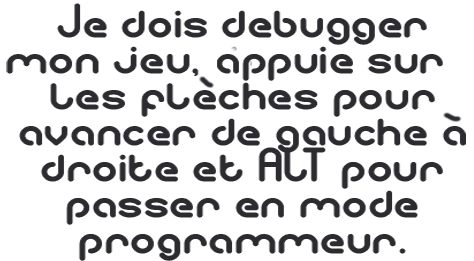
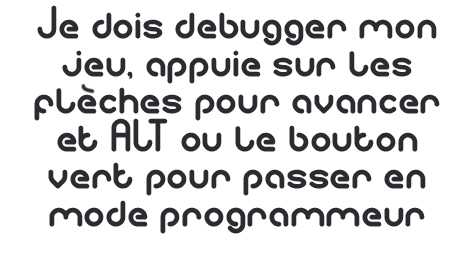
Ajout touche mobiule, j'aime pas phaser

diff --git a/src/scenes/Niveau1.js b/src/scenes/Niveau1.js
@@ -62,6 +62,8 @@ class Niveau1 extends Tableau{
         this.load.image('texte4', 'assets/TexteNar/textenarra4.png');
         this.load.image('FondTexte5', 'assets/TexteNar/FondTexte5.png');
         this.load.image('texte5', 'assets/TexteNar/textenarra5.png');
+        this.load.image('FondTexteUnlock', 'assets/TexteNar/FondTexteUnlock.png');
+        this.load.image('texteUnlock', 'assets/TexteNar/texteUnlock.png');
     }
 
     create() {
@@ -248,11 +250,16 @@ class Niveau1 extends Tableau{
         this.fondTexte4.alpha = 0;
         this.texte4.alpha = 0;
 
+        this.fondTexteUnlock = this.add.image(1225,300,'FondTexteUnlock').setBlendMode(1);
+        this.texteUnlock = this.add.image(1250,275,'texteUnlock');
+        this.fondTexteUnlock.alpha = 0;
+        this.texteUnlock.alpha = 0;
 
         this.Texte2Screen = true;
         this.Texte3OnScreen = true;
         this.Texte3OffScreen = true;
         this.Texte4OnScreen = true;
+        this.TexteUnlock = true;
 
     }
 
@@ -391,6 +398,8 @@ class Niveau1 extends Tableau{
                 }
             }
 
+
+
         if(this.Texte3OffScreen && this.Texte3OnScreen === false){
             if (!this.getMatr()){
                 this.tweens.add({
@@ -415,6 +424,51 @@ class Niveau1 extends Tableau{
                 });
                 this.Texte3OffScreen = false;
             }
+        }
+
+        if(this.Texte3OffScreen === false &&this.TexteUnlock === true){
+            this.tweens.add({
+                targets: this.fondTexteUnlock,
+                alpha: {
+                    from: 0,
+                    to:1, //on monte de 20 px
+                    duration: 500,// une demi seconde pour monter (et donc la même chose pour descendre)
+                    ease: 'Sine.easeInOut', //courbe d'accélération/décélération
+
+                }
+            });
+            this.tweens.add({
+                targets: this.texteUnlock,
+                alpha: {
+                    from: 0,
+                    to: 1, //on monte de 20 px
+                    duration: 500,// une demi seconde pour monter (et donc la même chose pour descendre)
+                    ease: 'Sine.easeInOut', //courbe d'accélération/décélération
+                }
+            });
+            let here= this;
+            setTimeout(function(){
+                here.tweens.add({
+                    targets: here.fondTexteUnlock,
+                    alpha: {
+                        from: 1,
+                        to:0, //on monte de 20 px
+                        duration: 500,// une demi seconde pour monter (et donc la même chose pour descendre)
+                        ease: 'Sine.easeInOut', //courbe d'accélération/décélération
+
+                    }
+                });
+                here.tweens.add({
+                    targets: here.texteUnlock,
+                    alpha: {
+                        from: 1,
+                        to: 0, //on monte de 20 px
+                        duration: 500,// une demi seconde pour monter (et donc la même chose pour descendre)
+                        ease: 'Sine.easeInOut', //courbe d'accélération/décélération
+                    }
+                });
+            }, 4000);
+            this.TexteUnlock = false;
         }
         // ----------------------------------------------------------------------------------------------
         // ----------------------------------------------------------------------------------------------

diff --git a/src/objects/ui/GamePadButtons.js b/src/objects/ui/GamePadButtons.js
@@ -1,0 +1,74 @@
+
+/**
+ * Un objet qui écoute les touches du clavier et mouvements sur le pad et qui influent le déplacement du joueur
+ */
+class GamePadButtons extends GameKeyboard{
+        constructor(scene, x, y,size=100) {
+        super(scene, x, y)
+        scene.add.existing(this);
+
+        this.size=size;
+        let w=this.size/2;
+        let pad2=scene.add.container();
+
+        let btnUP=scene.add.circle(0,0,w/2,0xff0000,0.3).setInteractive();
+        let btnLEFT=scene.add.circle(0,0,w/2,0xffffff,0.3).setInteractive();
+        let btnRIGHT=scene.add.circle(0,0,w/2,0xffffff,0.3).setInteractive();
+
+
+        let btnA=scene.add.circle(0,0,w/2,0x00ff00,0.3).setInteractive();
+
+        this.add(btnUP);
+        this.add(btnLEFT);
+        this.add(btnRIGHT);
+
+        this.add(btnA);
+
+        btnUP.x=scene.sys.canvas.width * -1 + w * 6;
+        btnLEFT.x=w*-2;
+        btnRIGHT.x=w*0;
+        btnLEFT.y=w;
+        btnRIGHT.y=w;
+        btnUP.y=w+1;
+
+
+        btnA.x=scene.sys.canvas.width * -1 + w * 5;
+        btnA.y=0;
+
+
+        btnLEFT.on('pointerdown',function(){
+            Tableau.current.player.directionX=-1;
+        });
+        btnRIGHT.on('pointerdown',function(){
+            Tableau.current.player.directionX=1;
+        });
+        btnUP.on('pointerdown',function(){
+            Tableau.current.player.directionY=-1;
+        });
+
+
+        btnLEFT.on('pointerup',function(){
+            Tableau.current.player.directionX=0;
+        });
+        btnRIGHT.on('pointerup',function(){
+            Tableau.current.player.directionX=0;
+        });
+        btnUP.on('pointerup',function(){
+            Tableau.current.player.directionY=-0;
+        });
+
+
+        btnA.on('pointerdown',function(){
+            Tableau.switchMode();
+        });
+        btnA.on('pointerup',function(){
+                Tableau.reloadMode();
+        });
+
+
+
+
+
+    }
+
+}

diff --git a/src/objects/ui/GamePad.js b/src/objects/ui/GamePad.js
@@ -1,7 +1,7 @@
 /**
  * Un objet qui écoute les touches du clavier et mouvements sur le pad et qui influent le déplacement du joueur
  */
-class GamePad extends Phaser.GameObjects.Container{
+class GamePad extends GamePadButtons{
     constructor(scene, x, y,size=100) {
         super(scene, x, y)
         scene.add.existing(this);
@@ -22,46 +22,6 @@ class GamePad extends Phaser.GameObjects.Container{
         circleDrag.setInteractive();
         scene.input.setDraggable(circleDrag, true);
 
-        this.cursors = scene.input.keyboard.createCursorKeys();
-
-        scene.input.keyboard.on('keydown', function(kevent){
-            switch (kevent.key){
-                case "ArrowRight":
-                    Tableau.current.player.directionX=1;
-                    break;
-
-                case "ArrowLeft":
-                    Tableau.current.player.directionX=-1;
-                    break;
-
-                case " ":
-                    Tableau.current.player.directionY=-1;
-                    break;
-
-                case "ArrowDown":
-                    Tableau.current.player.directionY=1;
-                    break;
-            }
-        });
-        scene.input.keyboard.on('keyup', function(kevent){
-            switch (kevent.key){
-                case "ArrowRight":
-                    Tableau.current.player.directionX=0;
-                    break;
-
-                case "ArrowLeft":
-                    Tableau.current.player.directionX=0;
-                    break;
-
-                case " ":
-                    Tableau.current.player.directionY=0;
-                    break;
-
-                case "ArrowDown":
-                    Tableau.current.player.directionY=0;
-                    break;
-            }
-        });
 
         circleDrag.on('drag', (pointer, dragX, dragY) => {
             circleDrag.x = dragX

diff --git a/src/objects/ui/GameKeyboard.js b/src/objects/ui/GameKeyboard.js
@@ -1,0 +1,52 @@
+class GameKeyboard extends Phaser.GameObjects.Container{
+    constructor(scene, x, y) {
+        super(scene, x, y)
+        scene.add.existing(this);
+
+        this.cursors = scene.input.keyboard.createCursorKeys();
+
+        scene.input.keyboard.on('keydown', function(kevent){
+            switch (kevent.key){
+                case "ArrowRight":
+                    Tableau.current.player.directionX=1;
+                    break;
+
+                case "ArrowLeft":
+                    Tableau.current.player.directionX=-1;
+                    break;
+
+                case " ":
+                    Tableau.current.player.directionY=-1;
+                    break;
+
+                case "ArrowDown":
+                    Tableau.current.player.directionY=1;
+                    break;
+            }
+        });
+        scene.input.keyboard.on('keyup', function(kevent){
+            switch (kevent.key){
+                case "ArrowRight":
+                    Tableau.current.player.directionX=0;
+                    break;
+
+                case "ArrowLeft":
+                    Tableau.current.player.directionX=0;
+                    break;
+
+                case " ":
+                    Tableau.current.player.directionY=0;
+                    break;
+
+                case "ArrowDown":
+                    Tableau.current.player.directionY=0;
+                    break;
+            }
+        });
+
+
+
+    }
+
+
+}

diff --git a/src/scenes/structure/Tableau.js b/src/scenes/structure/Tableau.js
@@ -45,7 +45,7 @@ class Tableau extends Phaser.Scene{
     }
     update(time, delta){
         super.update();
-        if(this.input.keyboard.addKey("ALT").isDown && this.chgtAvailable && Tableau.current.scene.key == 'Niveau 1'){
+        if(this.input.keyboard.addKey("ALT").isDown && this.chgtAvailable && Tableau.current.scene.key === 'Niveau 1'){
             this.chgt();
             this.chgtAvailable = false;
 
@@ -53,9 +53,25 @@ class Tableau extends Phaser.Scene{
         }if(this.input.keyboard.addKey("ALT").isUp ){
             this.chgtAvailable = true;
         }
-
-
         this.player.update();
+    }
+
+    static reloadMode(){
+        this.chgtAvailable = true;
+    }
+
+    static switchMode() {
+        console.log("changement");
+        if (Tableau.current.matrix){
+
+            Tableau.current.matrix = false;
+            Tableau.current.normalMode = true;
+        }
+        else {
+
+            Tableau.current.matrix =  true;
+        }
+        Tableau.current.chgtAvailable = false;
     }
 
     chgt(){

diff --git a/index.html b/index.html
@@ -21,6 +21,8 @@
     <div id="game"></div>
     <script src="src/objects/checkPoint.js"></script>
     <script src="src/objects/Player.js"></script>
+    <script src="src/objects/ui/GameKeyboard.js"></script>
+    <script src="src/objects/ui/GamePadButtons.js"></script>
     <script src="src/objects/ui/GamePad.js"></script>
     <script src="src/objects/ObjetPhysique.js"></script>
     <script src="src/objects/ObjetEnnemi.js"></script>

diff --git a/src/scenes/structure/Ui.js b/src/scenes/structure/Ui.js
@@ -80,7 +80,7 @@ class Ui extends Phaser.Scene {
         }, 100)
 
 
-        let pad = new GamePad(this, 0, 0);
+        let pad = new GamePadButtons(this, 0, 0);
         pad.x = this.sys.canvas.width - pad.size - 32;
         pad.y = this.sys.canvas.height - pad.size - 32;
 
